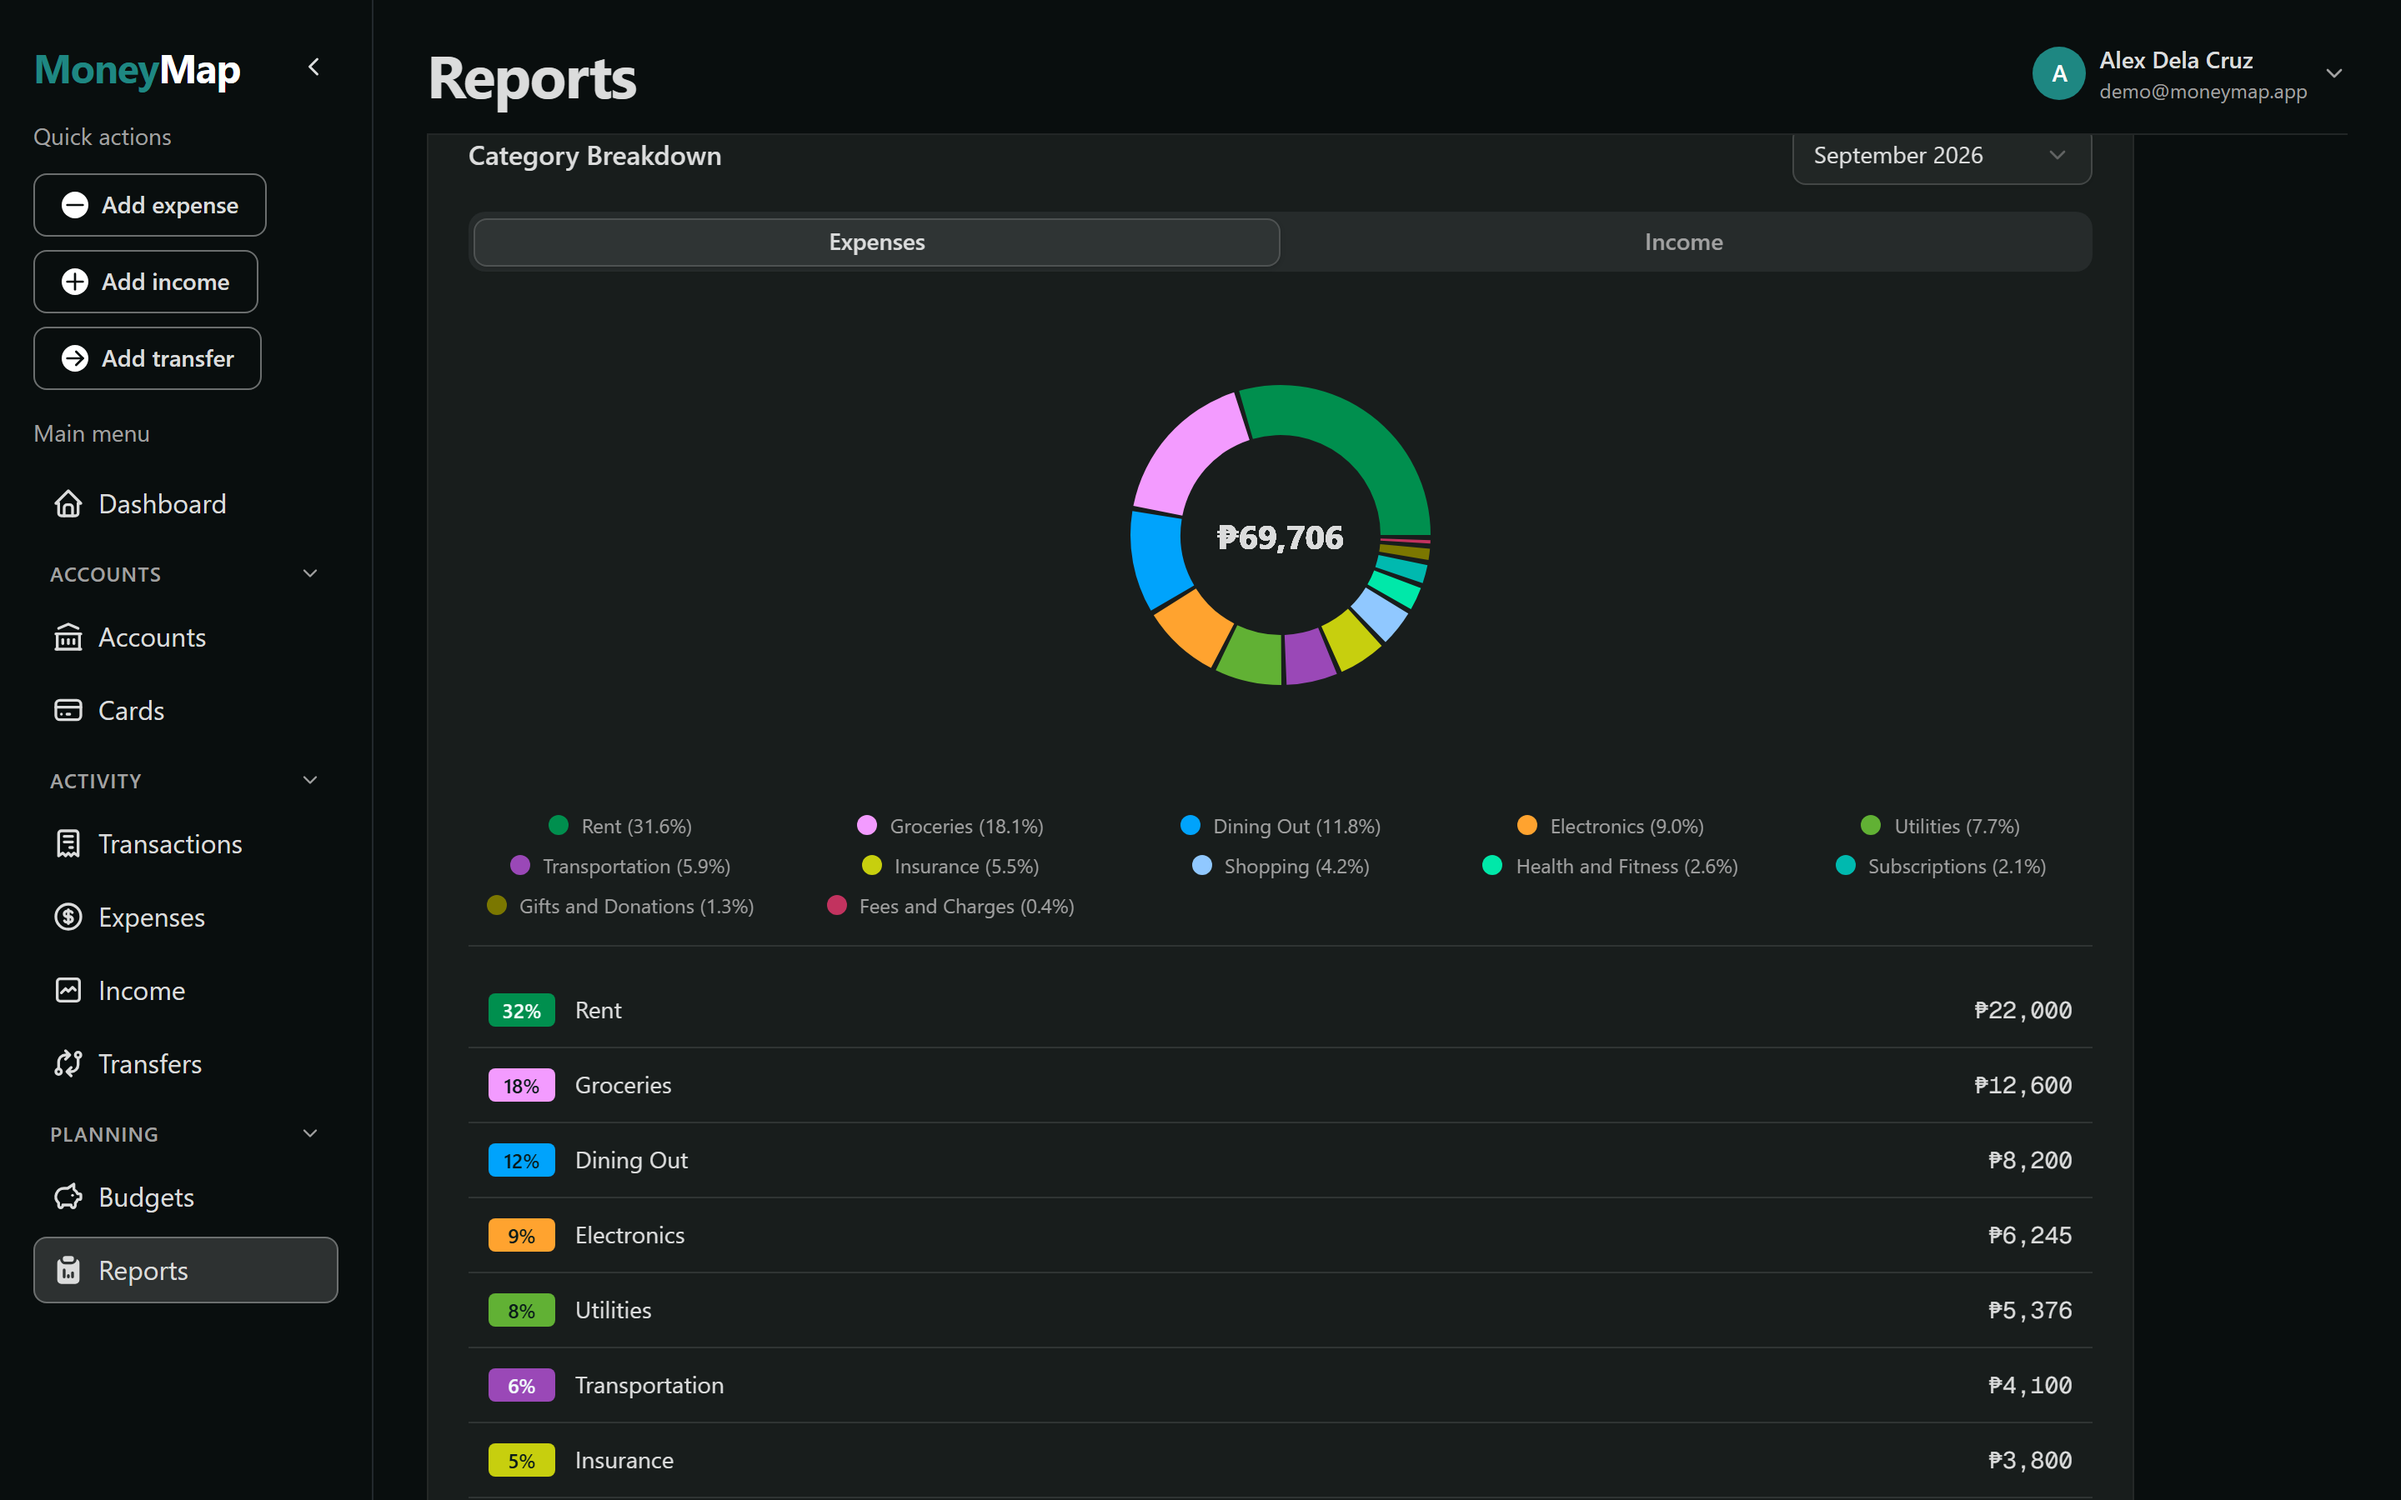
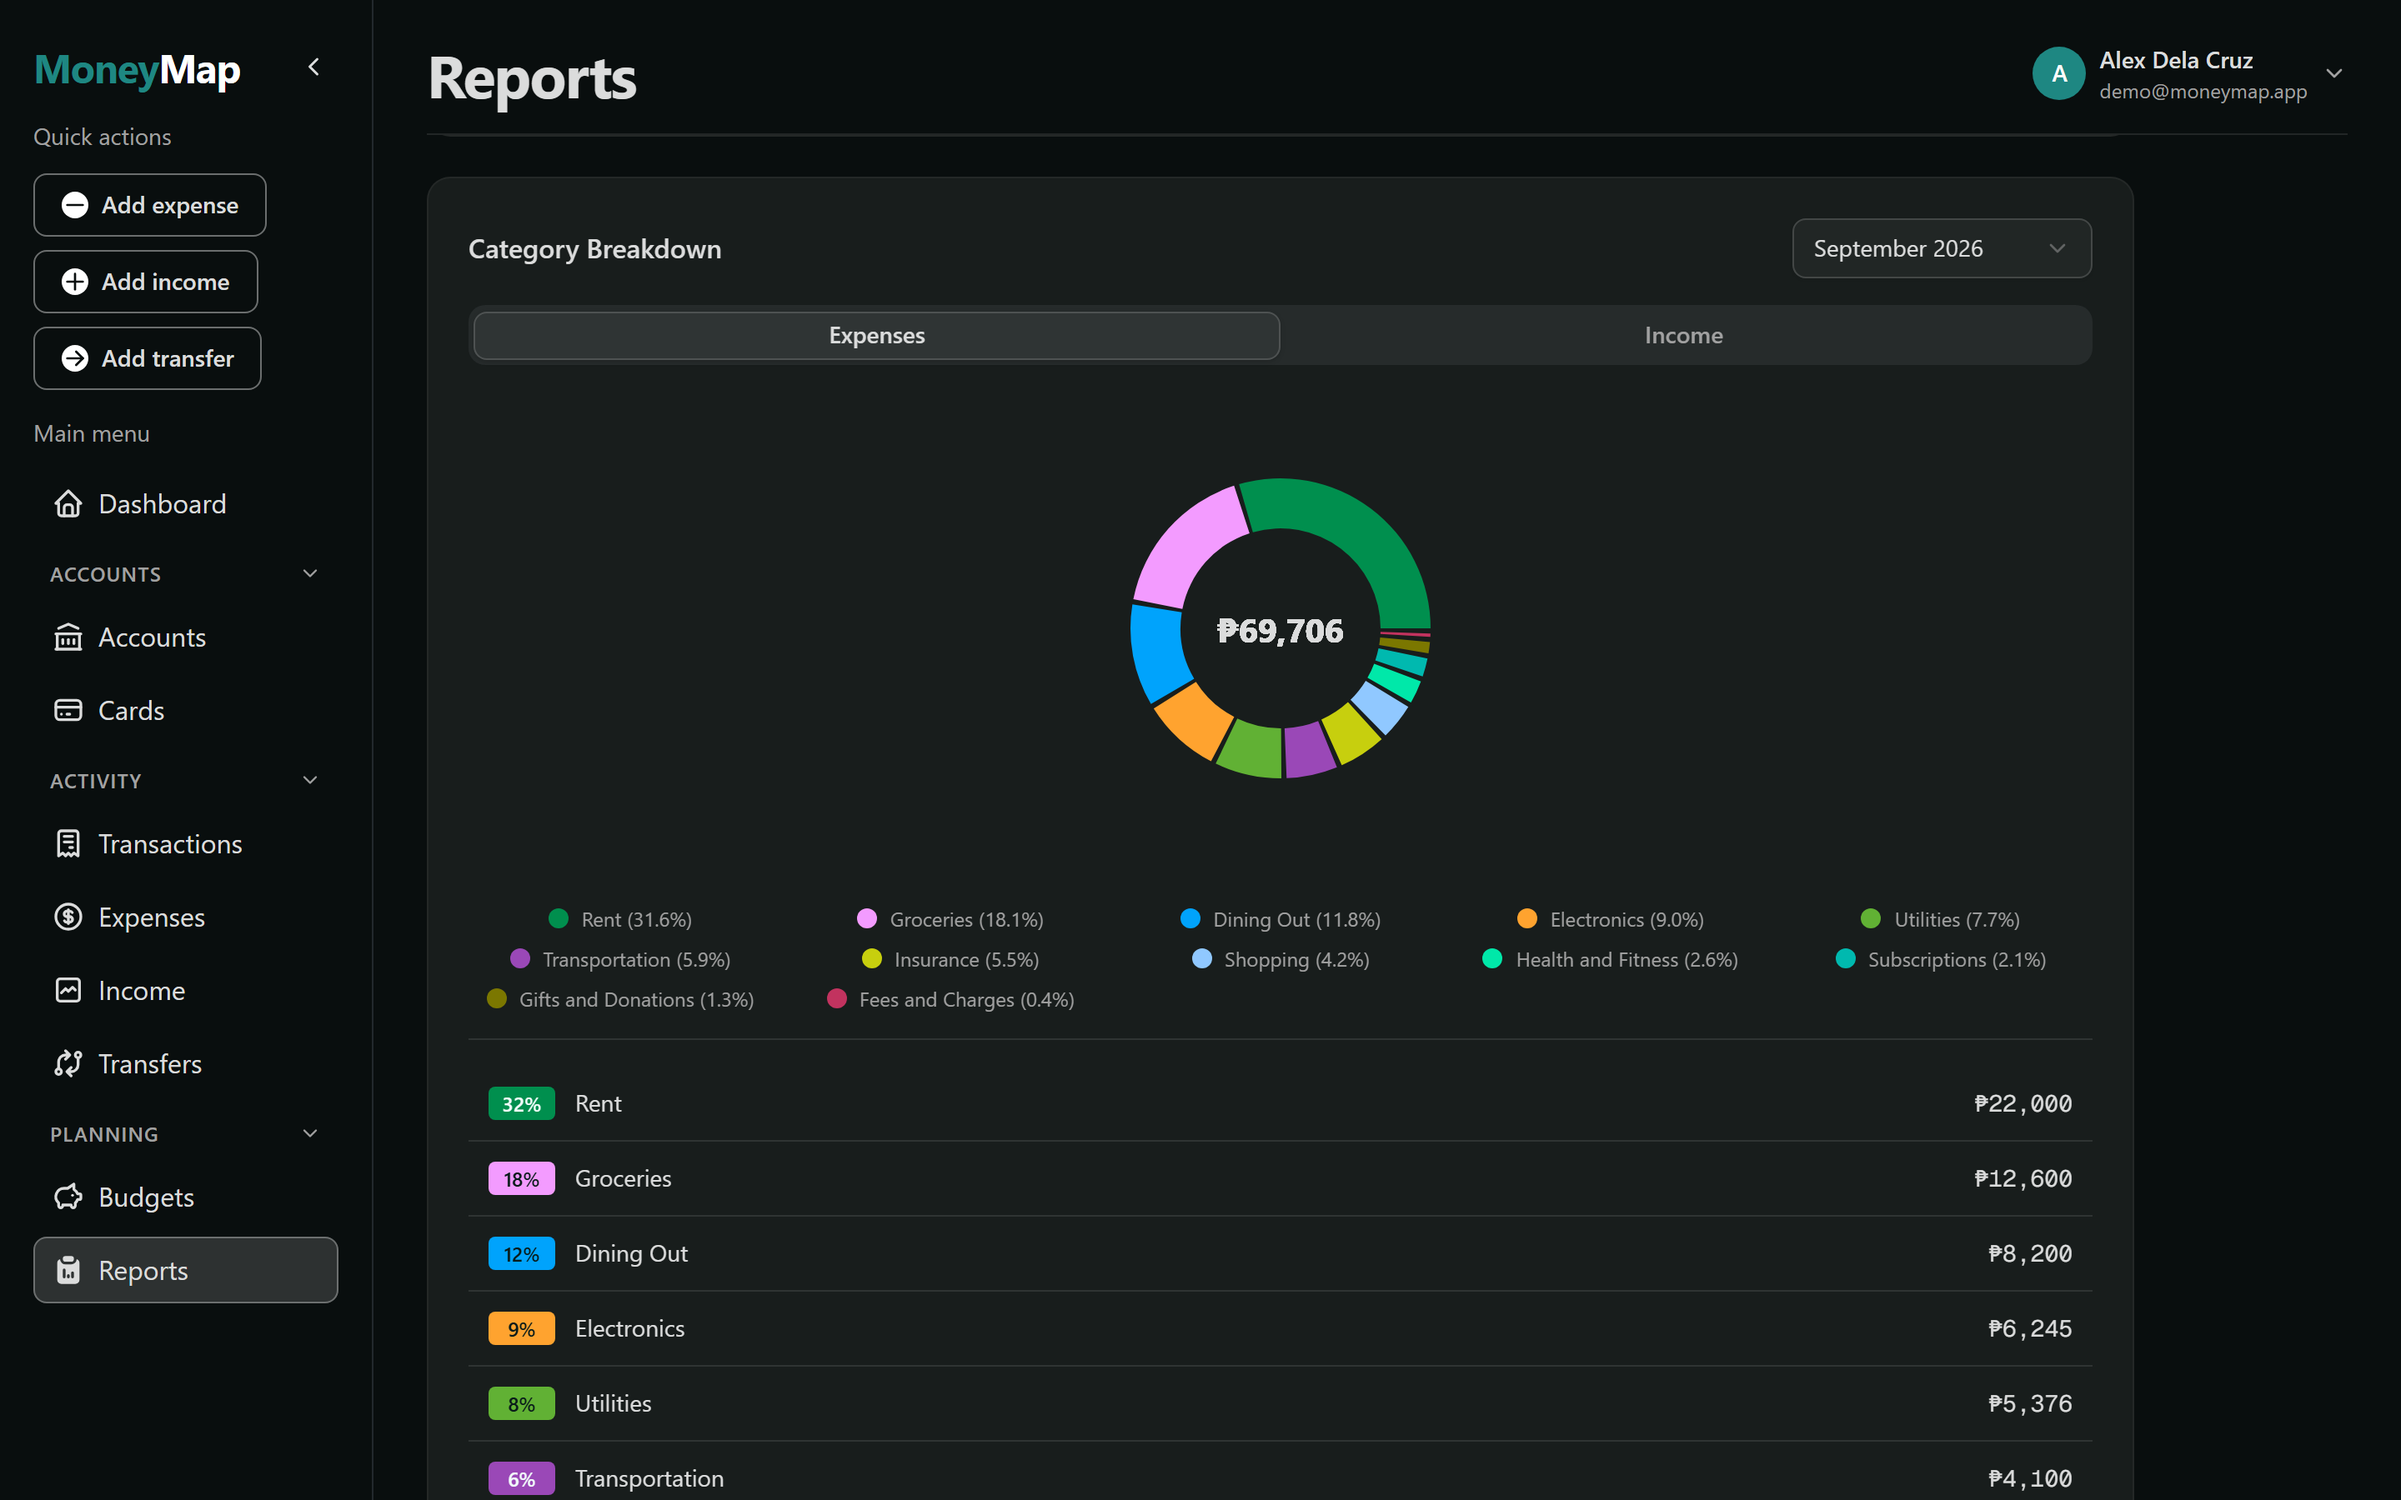
fix(demo): give the Category Breakdown capture more headroom
The heading sat flush against the sticky page header's bottom edge -
the capture cleared it by exactly the header's own height and no
more, reading as "too close to the top edge."

Add a fixed 56px of extra clearance above the existing header-height
offset before capturing, and recapture. The chart and full legend
stay in frame; the ranked list shows six rows instead of eight, the
cost of the extra breathing room above the heading.

diff --git a/scripts/demo/screenshots.ts b/scripts/demo/screenshots.ts
@@ -421,11 +421,19 @@ async function prepareCategoryBreakdown(page: Page, base: string): Promise<void>
   await breakdownHeading.waitFor({ state: "visible", timeout: 20000 });
   await waitForVisualSettle(page);
 
+  // Amendment 5: the original capture cleared the sticky header by exactly its own
+  // height, which left the heading sitting flush against it - "too close to the top
+  // edge." This adds a fixed extra margin on top of that clearance so there is visible
+  // breathing room above the heading. The chart and legend have fixed height regardless
+  // of scroll position, so the only cost is a few rows trimmed off the bottom of the
+  // ranked list, which still shows several ranked rows after the change.
+  const EXTRA_HEADROOM = 56;
+
   await assertEventually(
     page,
-    "the Category Breakdown heading was not clear of the sticky page header after scrolling",
+    "the Category Breakdown heading did not have clear headroom above it after scrolling",
     async () => {
-      const headerHeight = await breakdownHeading.evaluate((el) => {
+      const headerHeight = await breakdownHeading.evaluate((el, extra) => {
         el.scrollIntoView({ block: "start" });
         const header = document.querySelector<HTMLElement>(".sticky.top-0.z-10");
         const height = header?.getBoundingClientRect().height ?? 0;
@@ -433,17 +441,20 @@ async function prepareCategoryBreakdown(page: Page, base: string): Promise<void>
         while (ancestor) {
           const style = getComputedStyle(ancestor);
           if (/(auto|scroll)/.test(style.overflowY) && ancestor.scrollHeight > ancestor.clientHeight) {
-            ancestor.scrollTop -= height;
+            ancestor.scrollTop -= height + extra;
             break;
           }
           ancestor = ancestor.parentElement;
         }
         return height;
-      });
+      }, EXTRA_HEADROOM);
       const viewport = page.viewportSize();
       const headingBox = await breakdownHeading.boundingBox();
       if (!viewport || !headingBox) return false;
-      return headingBox.y >= headerHeight && headingBox.y + headingBox.height <= viewport.height;
+      return (
+        headingBox.y >= headerHeight + EXTRA_HEADROOM - 2 &&
+        headingBox.y + headingBox.height <= viewport.height
+      );
     },
   );
 
